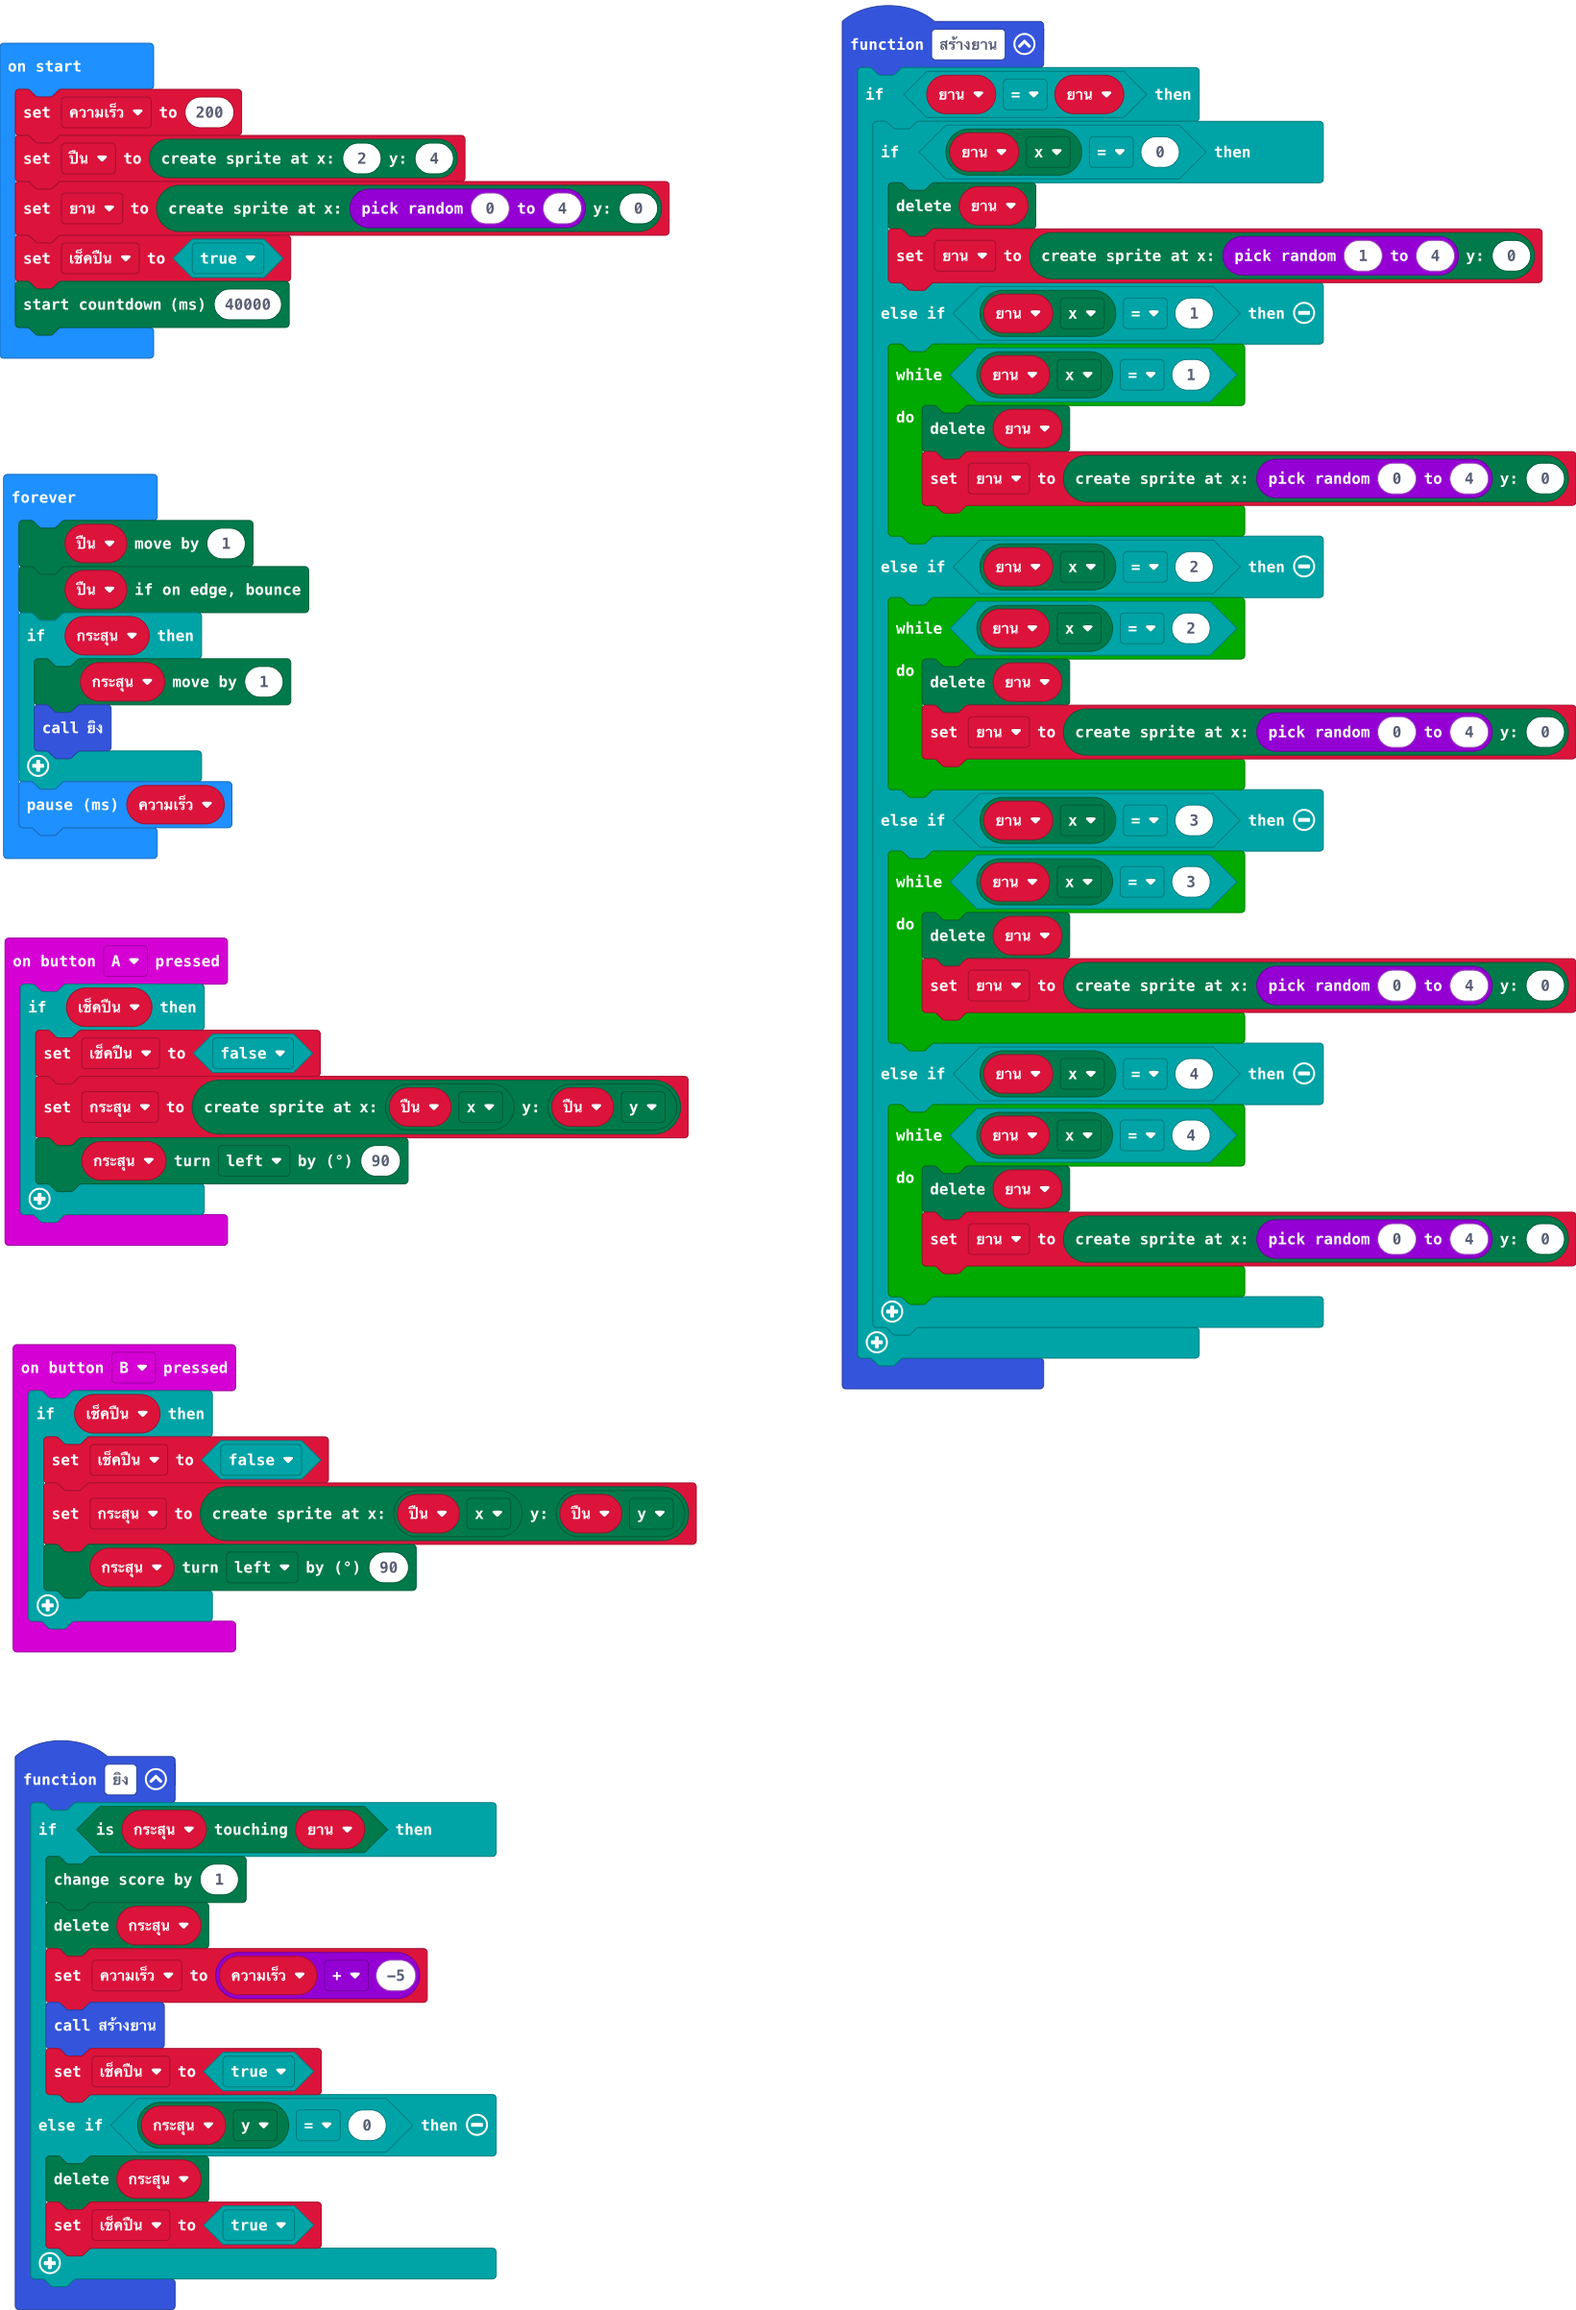
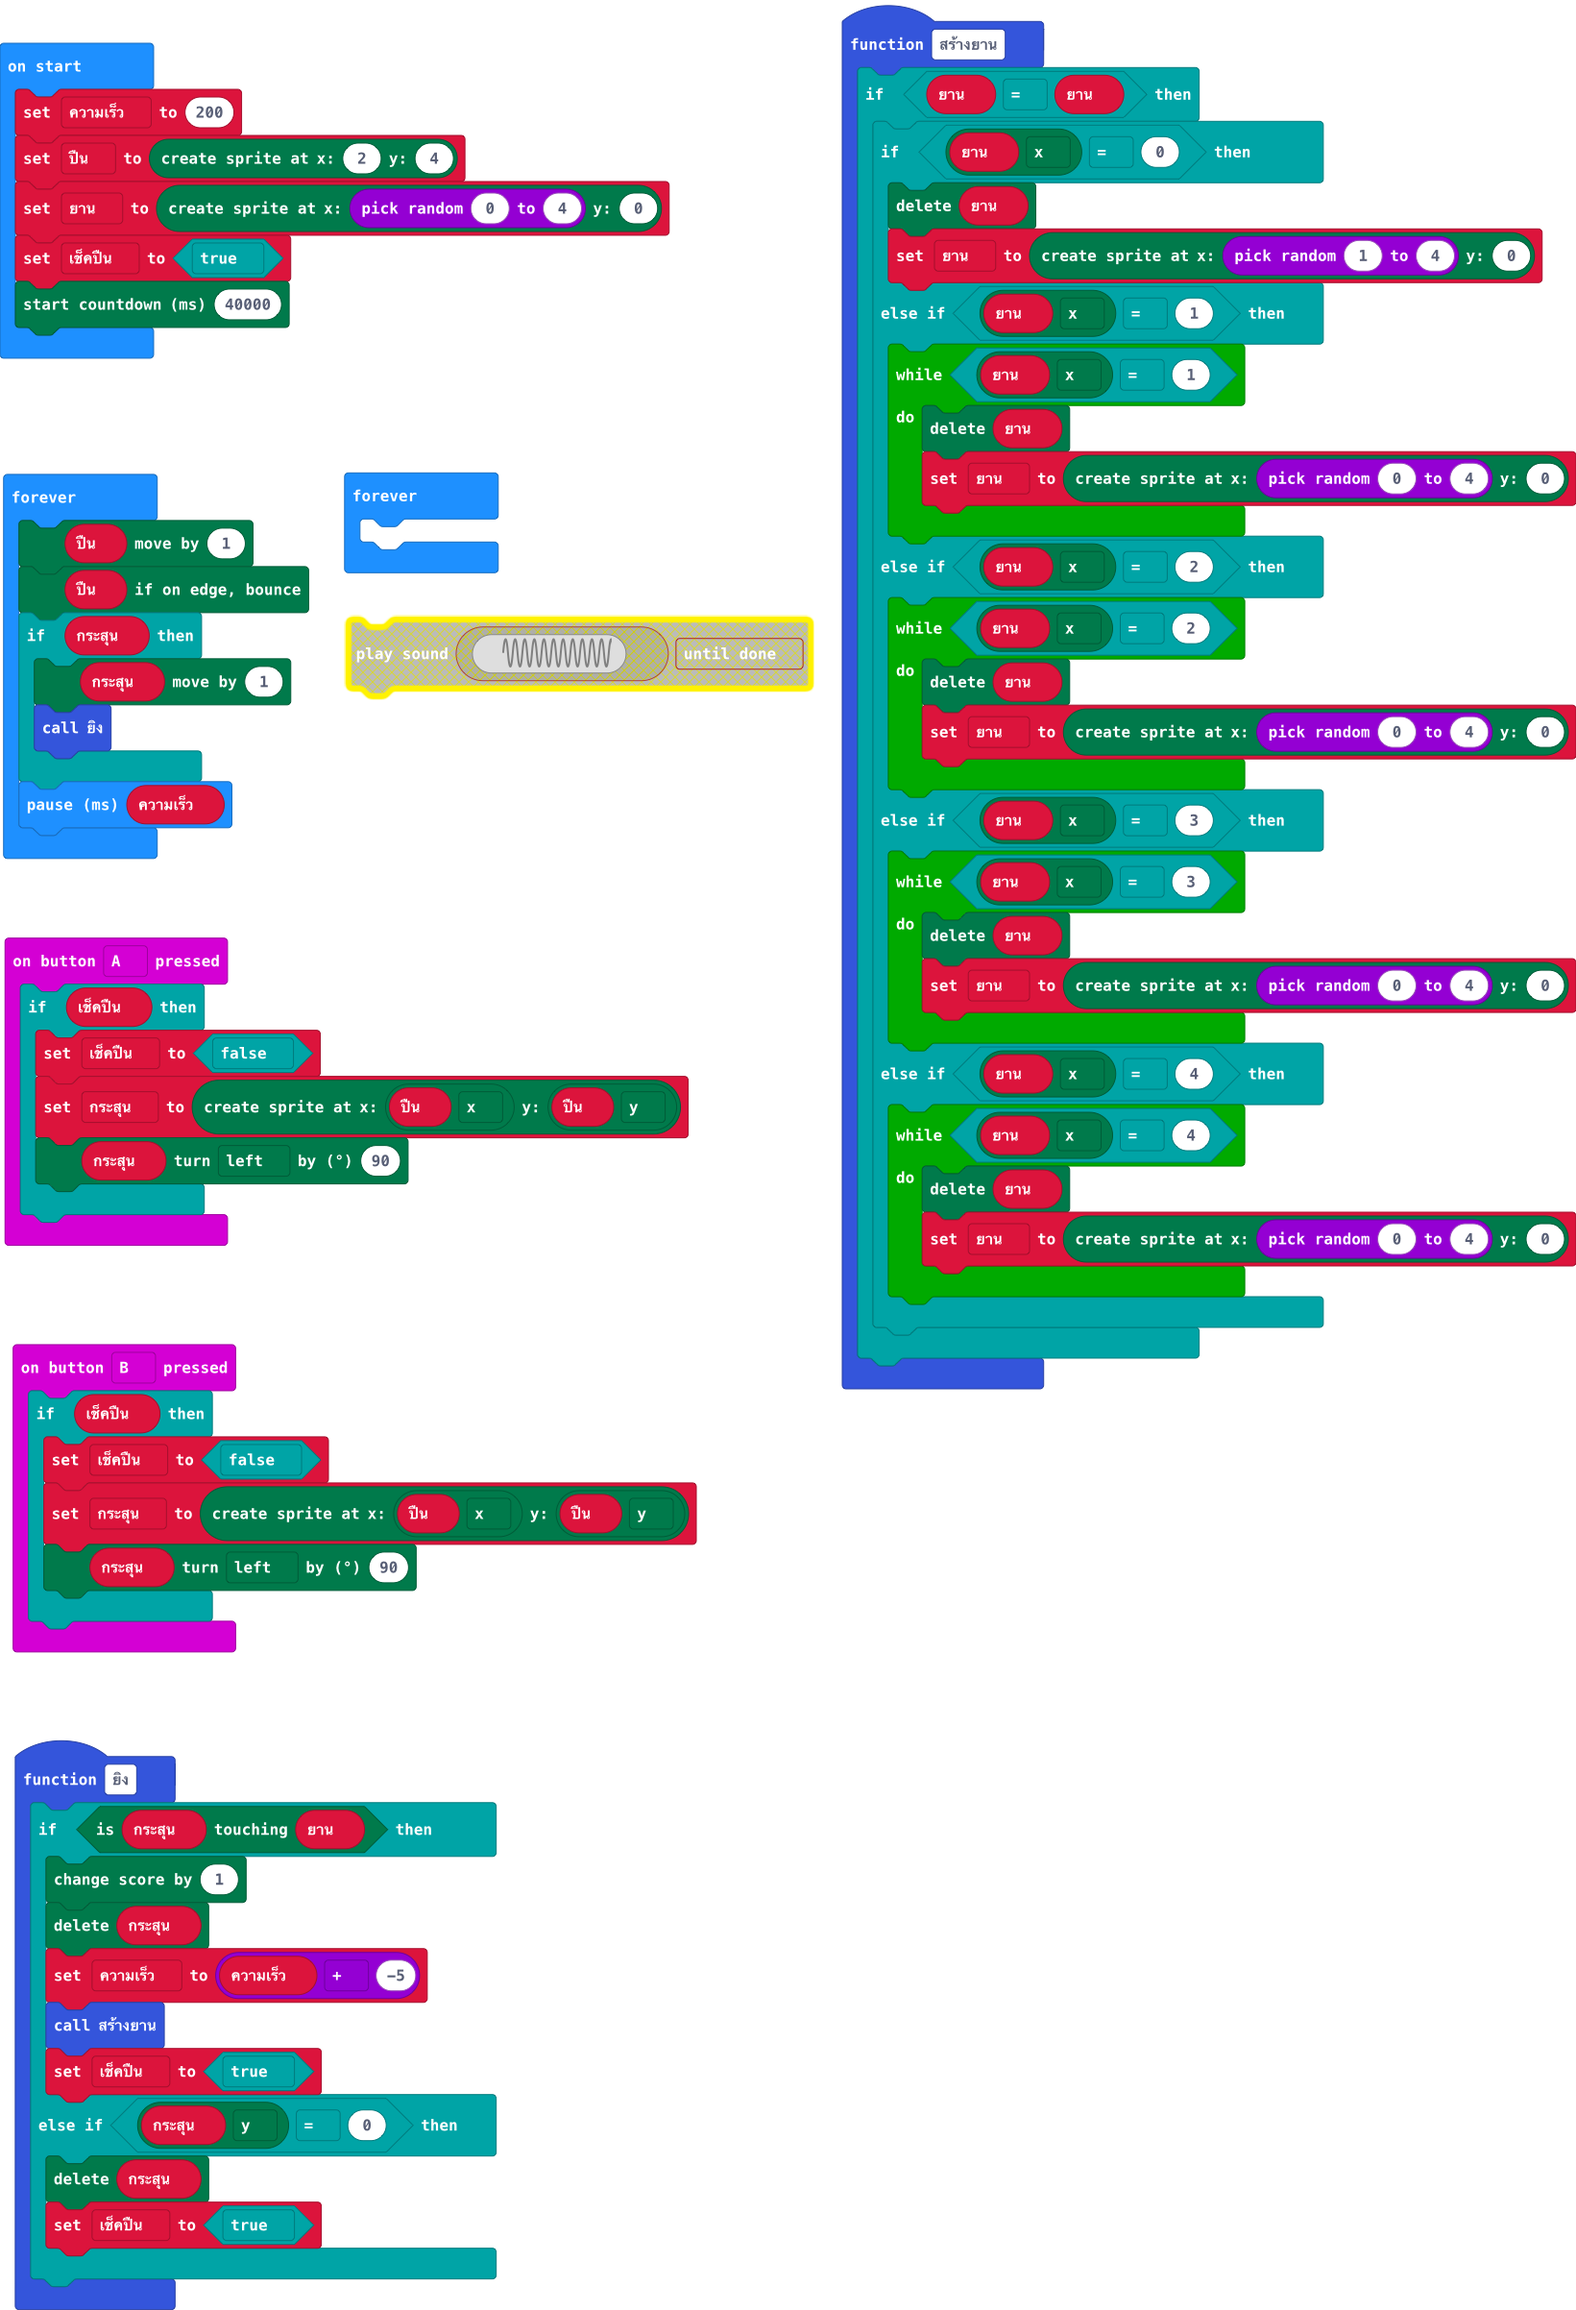
Update main.blocks, main.ts

Changed region(s): [[0.2176, 0.1871, 0.5283, 0.3119]]

diff --git a/main.ts b/main.ts
@@ -71,3 +71,6 @@ basic.forever(function () {
     }
     basic.pause(ความเร็ว)
 })
+basic.forever(function () {
+	
+})
